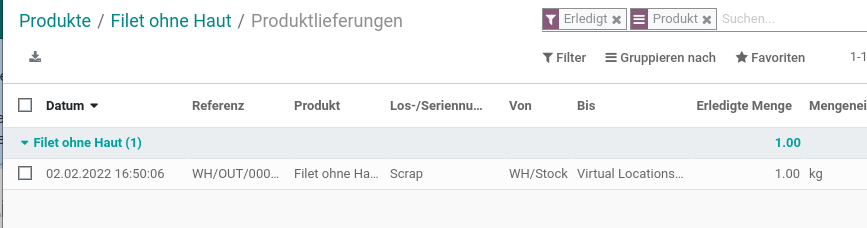
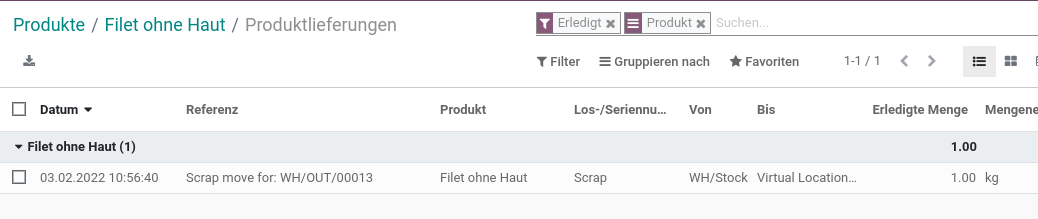
vault backup: 2022-02-03 11:16:16

diff --git a/Manufacturing BoM Scrap.md b/Manufacturing BoM Scrap.md
@@ -12,7 +12,7 @@ Definieren Sie eine Stückliste, die bei der Lieferung verschrottet wird.
 Technischer Name: `mrp_bom_scrap`\
 Repository: <https://github.com/Mint-System/Odoo-Apps-Manufacture/tree/14.0/mrp_bom_scrap>
 
-## Stückliste zum Verbrauch erstellen
+## Stückliste für Lagerschwund erstellen
 
 Öffnen sie ein Produkt und erstellen sie eine Stückliste. Als *Stücklisten Typ* geben sie *Scrap* an. Als Lagerquelle geben sie *WH/Stock* und als Ziellager *Virtual Locations/Scrap* ein.
 
@@ -26,11 +26,17 @@ Damit der Verbrauch richtig verfolgt werden kann, erstellen sie für die zu verb
 
 ![Manufacture BoM Scrap Lot erstellen](assets/Manufacture%20BoM%20Scrap%20Lot%20erstellen.gif)
 
-## Lieferung mit Verbrauch erstellen
+## Lieferung mit Lagerschwund erstellen
 
-Haben sie ein Produkt mit einer Verbrauchsstückliste erstellt, wird bei der Bestätigung der Lieferung automatisch eine Lagerbuchung und Produktlieferung mit dem Verbrauch erstellt.
+Haben sie ein Produkt mit einer Scrap-Stückliste erstellt, wird bei der Bestätigung der Lieferung automatisch eine Lagerbuchung und Produktlieferung für den Lagerschwund erstellt.
 
 ![Manufacture BoM Scrap Lagerschwund](assets/Manufacture%20BoM%20Scrap%20Lagerschwund.gif)
+
+## Lieferung mit mehrfachem Lagerschwund erstellen
+
+Angenommen sie verbrauchen zur Lieferung von 1 Kg *Zander Ganz*: 0.5 Kg *Filet ohne Haut* und zur Lieferung von 1 Kg *Filet ohne Haut*:  2 Kg *Zander Ganz*, dann wird für jedes Produkt ein Lagerschwund registriert.
+
+![Manufacturing BoM Scrap doppelt](assets/Manufacturing%20BoM%20Scrap%20mehrfach.gif)
 
 ## Verbrauch anzeigen
 
@@ -38,8 +44,14 @@ Haben sie ein Produkt mit einer Verbrauchsstückliste erstellt, wird bei der Bes
 
 ![](assets/Manufacturing%20BoM%20Scrap%20Produktlieferungen.png)
 
-## Lieferung mit verbrauchter Menge abbrechen
+## Lieferung Lagerschwund abbrechen
 
-Beim erledigen einer Lieferung mit Lagerschwund, wird eine zusätzlicher Lagerbuchun. Wird die Lieferung abgebrochen, dann wird die zusätzliche Lagerbuchung auf Null gesetzt.
+Beim erledigen einer Lieferung mit Lagerschwund, wird eine zusätzlicher Lagerbuchung erstellt. Wird die Lieferung abgebrochen, dann wird die zusätzliche Lagerbuchung auf Null gesetzt.
 
 ![Manufacture BoM Scrap abbrechen](assets/Manufacture%20BoM%20Scrap%20abbrechen.gif)
+
+## Verkaufsauftrag mit Lagerschwund abbrechen
+
+Beim Abbrechen eines Verkaufsauftrags mit Lagerschwund wird die entsprechende Lagerbuchung abgebrochen.
+
+![Manufacturing BoM Scrap Verkauf abbrechen](assets/Manufacturing%20BoM%20Scrap%20Verkauf%20abbrechen.gif)
